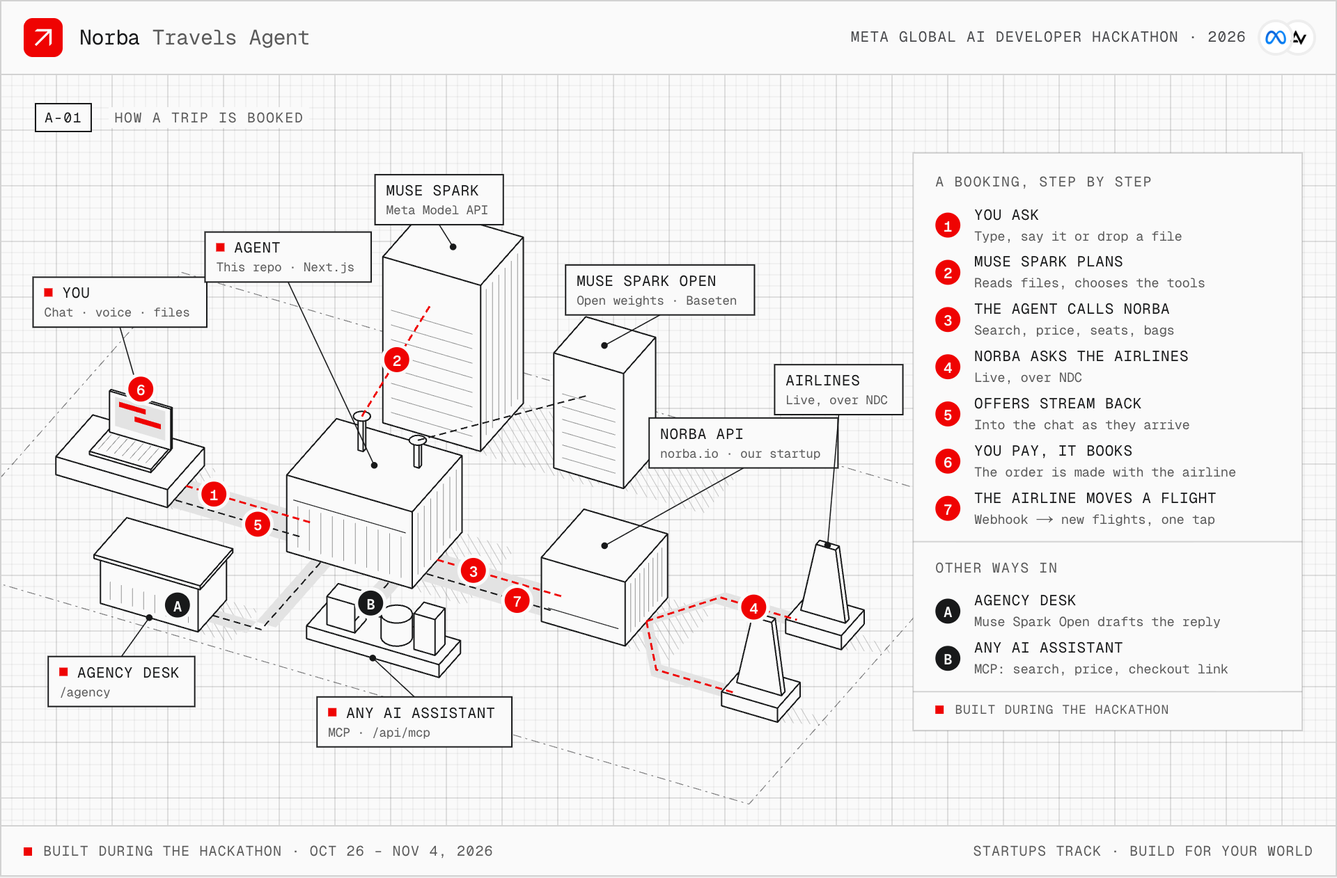
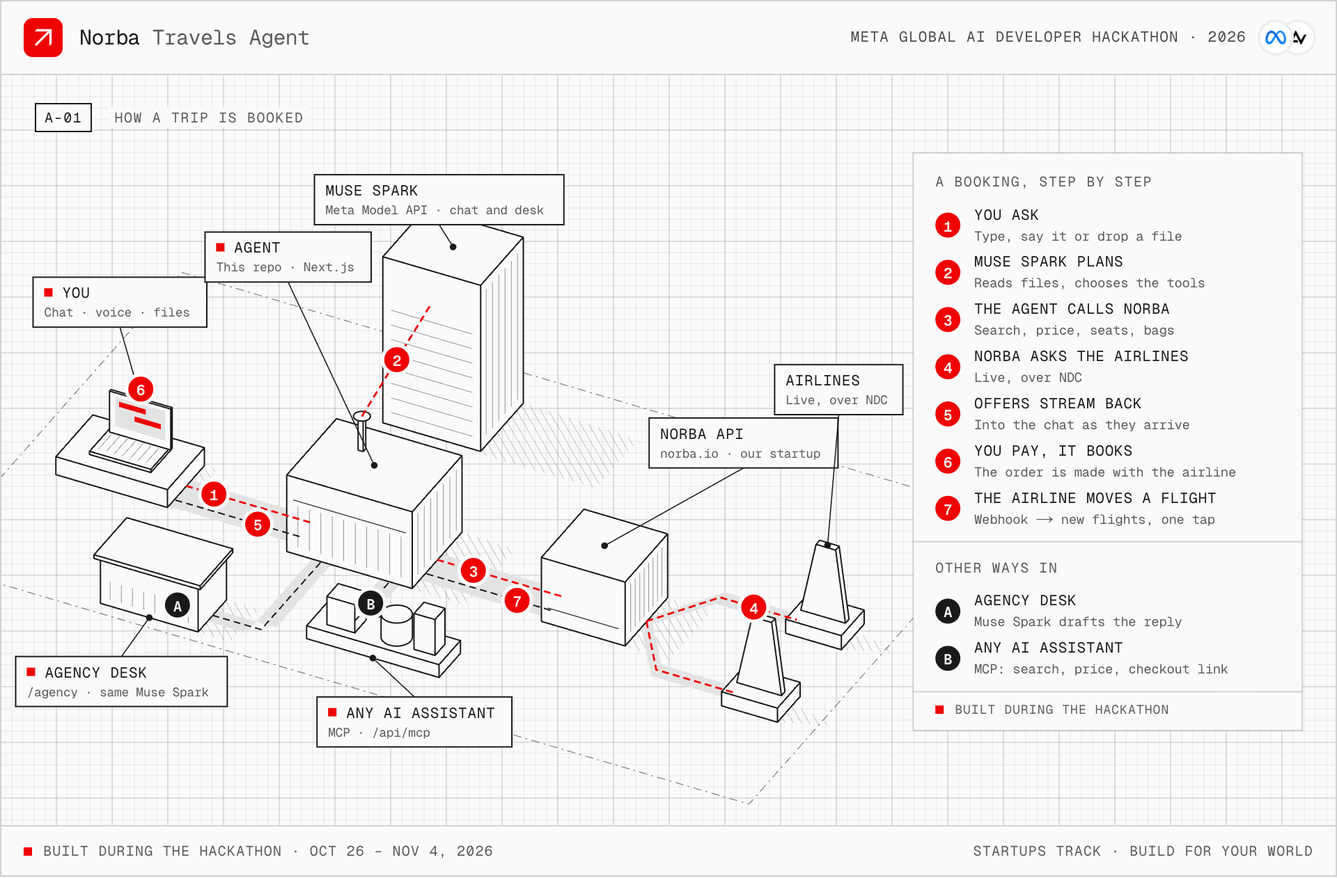
The agency desk runs on the same Muse Spark as the chat: the open-weight provider, its OPEN_MODEL_* settings and the Baseten defaults are gone from the code, the example environment and the Render blueprint; the desk needs MODEL_API_KEY like the rest and its chip names Muse Spark; the README, the do

diff --git a/src/components/drawing/architecture.tsx b/src/components/drawing/architecture.tsx
@@ -6,8 +6,8 @@ import { Badge, Legend, Tag } from "./kit";
 
 /**
  * The docs page's architecture, as a small campus on drawing paper, read as numbered steps. The agent's building
- * stands in the middle. The traveller's laptop sends it a chat turn and gets its events back. Two masts on its roof
- * reach the Meta towers behind: Muse Spark for the chat, Muse Spark Open for the agency desk. Norba's building stands
+ * stands in the middle. The traveller's laptop sends it a chat turn and gets its events back. A mast on its roof
+ * reaches Muse Spark's tower behind, which answers the chat and the agency desk alike. Norba's building stands
  * to its right and relays to the airlines' stands, and it sends the airline's schedule changes back as webhooks. The
  * agency desk and other AI assistants (over MCP) come in from the front. Each step's number sits on its wire and the
  * legend beside the drawing tells them in order; red marks a chat turn's path, ink the rest.
@@ -36,7 +36,6 @@ const track = (a: [number, number], b: [number, number], half = 0.7): V3[] =>
 type Block = { u0: number; u1: number; v0: number; v1: number; z: number };
 
 const META: Block = { u0: -10, u1: -3, v0: -18, v1: -12, z: 13 };
-const OPEN: Block = { u0: 2, u1: 7, v0: -17, v1: -12.5, z: 9 };
 const LAPTOP: Block = { u0: -26, u1: -18, v0: -2.6, v1: 2.6, z: 1.4 };
 const AGENT: Block = { u0: -9, u1: 0, v0: -3.5, v1: 3.5, z: 6 };
 const NORBA: Block = { u0: 9, u1: 15, v0: -3, v1: 3, z: 5 };
@@ -45,7 +44,6 @@ const MCP: Block = { u0: -3.5, u1: 6, v0: 8.5, v1: 11.5, z: 1 };
 
 /** The masts on the agent's roof, and the airlines' branches out of Norba. */
 const MAST_META = { u: -6, v: -1.2, z: 8.6 };
-const MAST_OPEN = { u: -2, v: -1.2, z: 8 };
 const SPLIT = [15, 18];
 const END_U = 23.5;
 const LINES = [
@@ -66,7 +64,7 @@ const DRAWING = (() => {
   /* Ground: shadows, then the tracks the wires run on. */
   scene.pass = 0;
   scene.framing = false;
-  for (const b of [META, OPEN, AGENT, NORBA, AGENCY]) scene.shadow([...corners(b, 0), ...corners(b, b.z)]);
+  for (const b of [META, AGENT, NORBA, AGENCY]) scene.shadow([...corners(b, 0), ...corners(b, b.z)]);
   scene.shadow([...corners(LAPTOP, 0), ...corners(LAPTOP, LAPTOP.z), P(-24, -1.6, 4.6), P(-20, -1.6, 4.6)]);
   scene.line([...ground([[-29, -21], [30, -21], [30, 15], [-29, 15]]), P(-29, -21, 0)], "dash");
   scene.framing = true;
@@ -80,13 +78,11 @@ const DRAWING = (() => {
   scene.face(ground([[AGENCY.u1, 11.3], [AGENCY_U + 0.7, 11.3], [AGENCY_U + 0.7, AGENT.v1], [AGENCY_U - 0.7, AGENT.v1], [AGENCY_U - 0.7, 12.7], [AGENCY.u1, 12.7]]), "well");
   scene.face(track([MCP_U, AGENT.v1], [MCP_U, MCP.v0]), "well");
 
-  /* The Meta towers at the back: Muse Spark, and Muse Spark Open beside it. */
+  /* Muse Spark's tower at the back. */
   scene.pass = 1;
   lbox(scene, META.u0, META.v0, 0, META.u1, META.v1, META.z);
   scene.lines(range(1, META.z - 4, 7).map((z) => [P(META.u0 + 0.6, META.v1, z), P(META.u1 - 0.6, META.v1, z)]), "hair");
   scene.lines(range(META.v0 + 0.8, META.v1 - 0.8, 5).map((v) => [P(META.u1, v, 0.8), P(META.u1, v, META.z - 0.8)]), "hair");
-  lbox(scene, OPEN.u0, OPEN.v0, 0, OPEN.u1, OPEN.v1, OPEN.z);
-  scene.lines(range(1, OPEN.z - 3, 5).map((z) => [P(OPEN.u0 + 0.6, OPEN.v1, z), P(OPEN.u1 - 0.6, OPEN.v1, z)]), "hair");
 
   /* The traveller's laptop on its plinth, a conversation on the screen. */
   scene.pass = 2;
@@ -106,7 +102,7 @@ const DRAWING = (() => {
   scene.lines(range(AGENT.u0 + 0.8, AGENT.u1 - 0.8, 9).map((u) => [P(u, AGENT.v1, 0.6), P(u, AGENT.v1, AGENT.z - 2.2)]), "hair");
   scene.line([P(AGENT.u0 + 0.5, AGENT.v1, AGENT.z - 1.8), P(AGENT.u1 - 0.5, AGENT.v1, AGENT.z - 1.8)], "fine");
   scene.lines(range(AGENT.v0 + 0.8, AGENT.v1 - 0.8, 6).map((v) => [P(AGENT.u1, v, 0.6), P(AGENT.u1, v, AGENT.z - 0.6)]), "hair");
-  for (const m of [MAST_META, MAST_OPEN]) {
+  for (const m of [MAST_META]) {
     lbox(scene, m.u - 0.18, m.v - 0.18, AGENT.z, m.u + 0.18, m.v + 0.18, m.z);
     scene.face(range(0, 2 * Math.PI, 16).map((t) => P(m.u + 0.55 * Math.cos(t), m.v + 0.55 * Math.sin(t), m.z)));
   }
@@ -187,10 +183,9 @@ export function ArchitectureDrawing() {
         ))}
       </g>
 
-      {/* The other wires in ink: events back, the agency desk's model, webhooks, the agency and the assistants. */}
+      {/* The other wires in ink: events back, webhooks, the agency and the assistants. */}
       <g className="fx-fade" style={{ animationDelay: "1200ms" }}>
         <polyline points={pts([g(AGENT.u0, EVENTS_V), g(LAPTOP.u1, EVENTS_V)])} stroke="var(--hr-ink-strong)" {...wire} strokeWidth={1} />
-        <polyline points={pts([P(MAST_OPEN.u, MAST_OPEN.v, MAST_OPEN.z), P(4.5, OPEN.v1, 6.5)])} stroke="var(--hr-ink-strong)" {...wire} strokeWidth={1} />
         <polyline points={pts([g(NORBA.u0, WEBHOOK_V), g(AGENT.u1, WEBHOOK_V)])} stroke="var(--hr-ink-strong)" {...wire} strokeWidth={1} />
         <polyline points={pts([g(AGENCY.u1, 12), g(AGENCY_U, 12), g(AGENCY_U, AGENT.v1)])} stroke="var(--hr-ink-strong)" {...wire} strokeWidth={1} />
         <polyline points={pts([g(MCP_U, MCP.v0), g(MCP_U, AGENT.v1)])} stroke="var(--hr-ink-strong)" {...wire} strokeWidth={1} />
@@ -199,11 +194,10 @@ export function ArchitectureDrawing() {
       {/* Every piece named on an upright tag; the red square marks what was built during the hackathon. */}
       <Tag at={at(P(-22, -1.5, 4.6))} off={[-15, -70]} title="You" sub="Chat · voice · files" made />
       <Tag at={at(P(-4.5, 0, AGENT.z))} off={[-62, -150]} title="Agent" sub="This repo · Next.js" made />
-      <Tag at={at(P(-6.5, -15, META.z))} off={[-10, -34]} title="Muse Spark" sub="Meta Model API" />
-      <Tag at={at(P(4.5, -14.7, OPEN.z))} off={[40, -40]} title="Muse Spark Open" sub="Open weights · Baseten" />
+      <Tag at={at(P(-6.5, -15, META.z))} off={[-10, -34]} title="Muse Spark" sub="Meta Model API · chat and desk" />
       <Tag at={at(P(12, 0, NORBA.z))} off={[100, -74]} title="Norba API" sub="norba.io · our startup" />
       <Tag at={at(P(END_U + 2.2, LINES[0].v, 6.6))} off={[8, -112]} title="Airlines" sub="Live, over NDC" />
-      <Tag at={at(P((AGENCY.u0 + AGENCY.u1) / 2, AGENCY.v1, 0))} off={[-20, 46]} title="Agency desk" sub="/agency" made />
+      <Tag at={at(P((AGENCY.u0 + AGENCY.u1) / 2, AGENCY.v1, 0))} off={[-20, 46]} title="Agency desk" sub="/agency · same Muse Spark" made />
       <Tag at={at(P(1.25, MCP.v1, 0))} off={[30, 46]} title="Any AI assistant" sub="MCP · /api/mcp" made />
 
       {/* Each step's number on its wire, appearing in order. */}

diff --git a/src/app/docs/page.tsx b/src/app/docs/page.tsx
@@ -8,7 +8,7 @@ import { STEPS } from "@/components/drawing/architecture-steps";
 import { DocsToc } from "./docs-toc";
 import { Sq } from "@/components/status";
 import { brain } from "@/server/agent/run";
-import { config, norbaEnvironment, openModelMode } from "@/server/config";
+import { config, norbaEnvironment } from "@/server/config";
 
 export const dynamic = "force-dynamic";
 export const metadata: Metadata = {
@@ -131,7 +131,6 @@ POST /api/mcp   {"jsonrpc":"2.0","id":3,"method":"tools/call","params":{"name":"
 /** The project's documentation: what it does, which Meta models and Norba endpoints it uses, and how to run it. */
 export default function Docs() {
   const b = brain();
-  const open = openModelMode();
   return (
     <div className="flex min-h-dvh flex-col">
       <header className="hr-frost sticky top-0 z-40 border-b border-hr-line">
@@ -142,9 +141,6 @@ export default function Docs() {
           <span className="ml-auto hidden items-center gap-4 font-mono text-[10px] uppercase tracking-[0.06em] text-hr-ink-3 md:inline-flex">
             <span className="inline-flex items-center gap-1.5">
               <Sq className={b.mode === "meta" ? "bg-hr-success" : "bg-hr-concrete"} /> {b.model}
-            </span>
-            <span className="inline-flex items-center gap-1.5">
-              <Sq className={open === "open" ? "bg-hr-success" : "bg-hr-concrete"} /> desk: {open === "open" ? config.openModel.id : open === "meta" ? "Muse Spark stand-in" : "off"}
             </span>
             <span className="inline-flex items-center gap-1.5">
               <Sq className={norbaEnvironment() === "mock" ? "bg-hr-concrete" : "bg-hr-success"} /> Norba · {norbaEnvironment()}
@@ -234,13 +230,13 @@ export default function Docs() {
                 ["Muse Spark 1.3", "Each traveller's own agent in a group trip: shortlists their best three with a reason", "Structured output (json_schema, strict)", <C key="2">server/agent/group.ts</C>],
                 ["Muse Spark 1.3 · reasoning high", "The group coordinator: one flight per traveller inside the arrival window and budget", "Structured output, reasoning_effort=high", <C key="3">server/agent/group.ts</C>],
                 ["Muse Spark 1.3 · vision", "Reads invitations, screenshots, PDFs and departure boards; a policy PDF into rules", "image_url and file content parts, structured output, 0–1000 boxes", <C key="4">server/agent/vision.ts</C>],
-                ["Muse Spark Open", "The agency desk: reads requests, checks the travel policy, drafts replies", "Open weights on Baseten (OpenAI-compatible), structured output", <C key="5">server/agency.ts</C>],
+                ["Muse Spark 1.3", "The agency desk: reads requests, checks the travel policy, drafts replies", "Structured output (json_schema, strict), vision for the policy PDF", <C key="5">server/agency.ts</C>],
                 ["Muse Voice Transcribe", "Dictation in the chat", "POST /v1/asr/transcribe, WAV 24 kHz mono, language bias, keywords", <C key="6">server/llm/voice.ts</C>],
               ]}
             />
             <P>
-              Without <C>OPEN_MODEL_API_KEY</C> the desk runs on Muse Spark and says so on every step. Without <C>MODEL_API_KEY</C> a rule-based planner drives the same tools; vision,
-              voice, group agents and the desk need a model.
+              The chat, the group agents and the agency desk all run on the same Muse Spark model. Without <C>MODEL_API_KEY</C> a rule-based planner drives the same tools;
+              vision, voice, group agents and the desk need the model.
             </P>
           </Section>
 
@@ -377,7 +373,7 @@ export default function Docs() {
             <Table
               head={["Flow", "Steps"]}
               rows={[
-                ["Agency desk", "Request read (Muse Spark Open) → Norba searches the cabin asked for and economy → each option checked against the policy → reply drafted → Approve prices it and adds a checkout link"],
+                ["Agency desk", "Request read (Muse Spark) → Norba searches the cabin asked for and economy → each option checked against the policy → reply drafted → Approve prices it and adds a checkout link"],
                 ["Board photo", "Photo → Muse Spark reads every row → the traveller's flight found by number → disrupted → find_rebooking → Switch"],
                 ["Booking", "Request → airports → search → choose → price → seats → extras → travellers → review → payment → booking → e-tickets"],
                 ["Document to trip", "File → Muse Spark reads it (kind, facts with boxes, trip) → the agent asks only what is missing → search"],
@@ -419,9 +415,6 @@ export default function Docs() {
                 ["NORBA_API_KEY", "empty (mock)", "nbr_test_… sandbox, nbr_live_… production"],
                 ["NORBA_API_URL", "https://api.norba.io", "Norba base URL"],
                 ["NORBA_WEBHOOK_SECRET", "empty", "whsec_ secret for /api/webhooks/norba"],
-                ["OPEN_MODEL_API_KEY", "empty", "Partner key for Muse Spark Open (the desk)"],
-                ["OPEN_MODEL_BASE_URL", "https://inference.baseten.co/v1", "Partner base URL"],
-                ["OPEN_MODEL_ID", "meta-models/muse-spark-open-1026", "Open-weight model id"],
                 ["PUBLIC_URL", "the request's host", "Base of checkout links"],
                 ["VOICE_MODEL_ID", "muse-voice-transcribe-1.0", "Dictation model"],
               ]}

diff --git a/src/server/agency.ts b/src/server/agency.ts
@@ -4,17 +4,17 @@ import { airlineName } from "@/lib/airlines";
 import { clock, dateLabel, duration, money } from "@/lib/format";
 import { groupItineraries, sortItineraries } from "@/lib/offers";
 import type { CabinClass, Offer } from "@/lib/types";
-import { config, openModelMode } from "./config";
-import { modelLabel, structured, type CallOptions } from "./llm/meta";
+import { brainMode } from "./config";
+import { modelLabel, structured } from "./llm/meta";
 import type { ContentPart } from "./llm/types";
 import { openCheckout, slotsFor } from "./checkout";
 import { norba } from "./norba";
 
 /*
- * The agency desk: the same agent, for a travel agency's staff. A client's request arrives by email or chat; Muse
- * Spark Open — Meta's open-weight model, served by a partner — reads it, Norba searches, the model checks every option
- * against the client company's travel policy and drafts the reply. The person at the desk approves one option, which
- * becomes a checkout link for the client. Without a partner key Muse Spark stands in, and the desk says so.
+ * The agency desk: the same agent, for a travel agency's staff, on the same model as the chat. A client's request
+ * arrives by email or chat; Muse Spark reads it, Norba searches, Muse Spark checks every option against the client
+ * company's travel policy and drafts the reply. The person at the desk approves one option, which becomes a checkout
+ * link for the client.
  */
 
 export type DeskStep = { id: string; label: string; status: "running" | "done" | "failed"; detail?: string; model?: string };
@@ -45,8 +45,7 @@ type Draft = { offers: Map<string, Offer>; adults: number; traveller: string; at
 const store = globalThis as unknown as { __naDesk?: Map<string, Draft> };
 const drafts = (store.__naDesk ??= new Map<string, Draft>());
 
-const OPEN: CallOptions = { provider: "open" };
-const label = () => (openModelMode() === "open" ? `${modelLabel(OPEN)} · Baseten` : `${modelLabel()} (standing in for Muse Spark Open)`);
+const label = () => modelLabel();
 
 const CABINS: CabinClass[] = ["economy", "premium_economy", "business", "first"];
 
@@ -115,7 +114,7 @@ export async function draft(request: string, policy: { text?: string; pdf?: stri
             notes: { type: "string", description: "Constraints that matter for the flight: meeting times, preferences" },
           },
         },
-        { ...OPEN, signal },
+        { signal },
       ),
     (r) => `${r.traveller_name} · ${r.origin} → ${r.destination} · ${r.depart_date}${r.return_date ? `–${r.return_date}` : ""} · ${r.cabin.replace("_", " ")}`,
     model,
@@ -173,7 +172,7 @@ export async function draft(request: string, policy: { text?: string; pdf?: stri
             summary: { type: "string", description: "One sentence for the agent at the desk" },
           },
         },
-        { ...OPEN, signal },
+        { signal },
       ),
     (r) => `${r.verdicts.filter((v) => v.compliant).length} of ${options.length} within policy`,
     model,
@@ -195,7 +194,7 @@ export async function draft(request: string, policy: { text?: string; pdf?: stri
         ],
         "agency_reply",
         { type: "object", additionalProperties: false, required: ["subject", "body"], properties: { subject: { type: "string" }, body: { type: "string" } } },
-        { ...OPEN, signal },
+        { signal },
       ),
     () => "ready to send",
     model,
@@ -214,4 +213,4 @@ export async function approve(draftId: string, ref: string, base: string) {
   return { url: `${base}/pay/${c.token}`, total: c.total, currency: c.currency, until: priced.price_guaranteed_until };
 }
 
-export const deskModel = () => ({ mode: openModelMode(), label: label(), partner: config.openModel.baseUrl.replace(/^https?:\/\//, "").split("/")[0] });
+export const deskModel = () => ({ mode: brainMode(), label: label() });

diff --git a/src/server/llm/meta.ts b/src/server/llm/meta.ts
@@ -6,8 +6,7 @@ import type { ChatTurn, CompletionResult, ToolCall, ToolSchema } from "./types";
 
 /*
  * Meta Model API over its OpenAI-compatible Chat Completions endpoint (POST {base}/chat/completions, Bearer key).
- * Two providers answer the same request: "meta" is Muse Spark on api.meta.ai; "open" is Muse Spark Open, the
- * open-weight model, served by a partner such as Baseten. Without a key for "open", Muse Spark stands in for it.
+ * Muse Spark answers every call: the chat, file reading, the group agents and the agency desk.
  */
 
 const TIMEOUT_MS = 120_000;
@@ -22,16 +21,12 @@ export class ModelError extends Error {
   }
 }
 
-export type Provider = "meta" | "open";
-
-/** One model call's settings: which provider, which model, how hard it thinks. */
-export type CallOptions = { provider?: Provider; model?: string; effort?: string; signal?: AbortSignal };
+/** One model call's settings: which model, how hard it thinks. */
+export type CallOptions = { model?: string; effort?: string; signal?: AbortSignal };
 
 function endpoint(o: CallOptions = {}) {
-  const open = o.provider === "open" && config.openModel.apiKey;
-  const p = open ? config.openModel : config.model;
-  const effort = o.effort ?? (open ? "" : config.model.reasoningEffort);
-  return { url: `${p.baseUrl}/chat/completions`, key: p.apiKey, model: o.model ?? p.id, effort, provider: (open ? "open" : "meta") as Provider };
+  const p = config.model;
+  return { url: `${p.baseUrl}/chat/completions`, key: p.apiKey, model: o.model ?? p.id, effort: o.effort ?? p.reasoningEffort };
 }
 
 /** The model a call with these options runs on, as the chat labels it. */
@@ -79,7 +74,7 @@ export async function structured<T>(messages: ChatTurn[], name: string, schema: 
   if (!res.ok) throw await failure(res);
   const j = (await res.json()) as Chunk;
   const content = j.choices?.[0]?.message?.content ?? "";
-  // Some open-weight servers wrap JSON in a code fence even under a schema.
+  // A model may wrap JSON in a code fence even under a schema.
   const raw = content.replace(/^\s*```(?:json)?\s*/i, "").replace(/\s*```\s*$/, "");
   try {
     return JSON.parse(raw) as T;
@@ -109,7 +104,7 @@ export async function complete(messages: ChatTurn[], tools: ToolSchema[], onText
   });
   if (!res.ok || !res.body) throw await failure(res);
 
-  // A provider that ignores `stream` answers one JSON body: read it the same way.
+  // An endpoint that ignores `stream` answers one JSON body: read it the same way.
   if (!(res.headers.get("content-type") ?? "").includes("event-stream")) {
     const j = (await res.json()) as Chunk;
     const m = j.choices?.[0]?.message;

diff --git a/src/server/config.ts b/src/server/config.ts
@@ -10,12 +10,6 @@ export const config = {
     /** How hard the group coordinator thinks: it weighs every traveller's options against each other. */
     plannerEffort: process.env.MODEL_PLANNER_EFFORT?.trim() || "high",
   },
-  /** Muse Spark Open, Meta's open-weight model, served by a partner (Baseten by default); the agency desk runs on it. */
-  openModel: {
-    apiKey: process.env.OPEN_MODEL_API_KEY?.trim() ?? "",
-    baseUrl: (process.env.OPEN_MODEL_BASE_URL?.trim() || "https://inference.baseten.co/v1").replace(/\/$/, ""),
-    id: process.env.OPEN_MODEL_ID?.trim() || "meta-models/muse-spark-open-1026",
-  },
   /** Muse Voice Transcribe, on the Meta Model API with the same key. */
   voice: { id: process.env.VOICE_MODEL_ID?.trim() || "muse-voice-transcribe-1.0" },
   /**
@@ -33,10 +27,7 @@ export const config = {
   },
 };
 
-export const brainMode = () => (config.model.apiKey ? "meta" : "offline");
-
-/** Where the open-weight model runs: its partner when configured, otherwise Muse Spark stands in. */
-export const openModelMode = (): "open" | "meta" | "offline" => (config.openModel.apiKey ? "open" : config.model.apiKey ? "meta" : "offline");
+export const brainMode = (): "meta" | "offline" => (config.model.apiKey ? "meta" : "offline");
 
 export const norbaMode = () => (config.norba.apiKey ? "live" : "mock");
 

diff --git a/src/app/api/agency/draft/route.ts b/src/app/api/agency/draft/route.ts
@@ -1,5 +1,5 @@
 import { draft, type DeskEvent } from "@/server/agency";
-import { brainMode, openModelMode } from "@/server/config";
+import { brainMode } from "@/server/config";
 import { dataUrlBytes, MAX_ATTACHMENT_BYTES } from "@/server/agent/vision";
 import { limited, limits } from "@/server/guard";
 
@@ -13,7 +13,7 @@ export async function POST(req: Request) {
   // A draft is four model calls: the desk gets a quarter of the chat's allowance.
   const tooMany = limited(req, "desk", Math.ceil(limits.perVisitorPerHour / 4));
   if (tooMany) return tooMany;
-  if (openModelMode() === "offline") return Response.json({ error: "The desk needs a model: set OPEN_MODEL_API_KEY or MODEL_API_KEY." }, { status: 503 });
+  if (brainMode() === "offline") return Response.json({ error: "The desk needs Muse Spark: set MODEL_API_KEY." }, { status: 503 });
   const body = (await req.json().catch(() => ({}))) as Body;
   const request = (body.request ?? "").trim().slice(0, 4000);
   if (!request) return Response.json({ error: "Paste the client's request" }, { status: 400 });

diff --git a/src/app/agency/agency-desk.tsx b/src/app/agency/agency-desk.tsx
@@ -37,7 +37,7 @@ const POLICY = `Acme Corp — Air travel policy (2026)
 4. Prefer non-stop flights when they cost less than 20% more than a connection.
 5. Book at least 7 days before departure.`;
 
-type Model = { mode: "open" | "meta" | "offline"; label: string; partner: string };
+type Model = { mode: "meta" | "offline"; label: string };
 
 async function* lines(body: ReadableStream<Uint8Array>) {
   const reader = body.getReader();
@@ -171,7 +171,7 @@ export function AgencyDesk({ model }: { model: Model }) {
             <NorbaWordmark sub="Agency desk" />
           </Link>
           <span className="ml-auto hidden items-center gap-2 font-mono text-[10px] uppercase tracking-[0.06em] text-hr-ink-3 sm:inline-flex">
-            <Sq className={model.mode === "open" ? "bg-hr-success" : "bg-hr-concrete"} /> {model.label}
+            <Sq className={model.mode === "meta" ? "bg-hr-success" : "bg-hr-concrete"} /> {model.label}
           </span>
           <NavLinks className="max-md:ml-auto" />
         </div>

diff --git a/src/app/agency/page.tsx b/src/app/agency/page.tsx
@@ -3,7 +3,7 @@ import { deskModel } from "@/server/agency";
 import { AgencyDesk } from "./agency-desk";
 
 export const dynamic = "force-dynamic";
-export const metadata: Metadata = { title: "Agency desk", description: "Client requests drafted by Muse Spark Open, checked against the travel policy, booked through Norba." };
+export const metadata: Metadata = { title: "Agency desk", description: "Client requests drafted by Muse Spark, checked against the travel policy, booked through Norba." };
 
 export default function Agency() {
   return <AgencyDesk model={deskModel()} />;

diff --git a/src/components/drawing/architecture-steps.ts b/src/components/drawing/architecture-steps.ts
@@ -7,6 +7,6 @@ export const STEPS = [
   { n: "5", title: "Offers stream back", sub: "Into the chat as they arrive" },
   { n: "6", title: "You pay, it books", sub: "The order is made with the airline" },
   { n: "7", title: "The airline moves a flight", sub: "Webhook → new flights, one tap" },
-  { n: "A", title: "Agency desk", sub: "Muse Spark Open drafts the reply" },
+  { n: "A", title: "Agency desk", sub: "Muse Spark drafts the reply" },
   { n: "B", title: "Any AI assistant", sub: "MCP: search, price, checkout link" },
 ] as const;

diff --git a/README.md b/README.md
@@ -19,8 +19,8 @@ flights through the **[Norba API](https://norba.io)**, which talks to the airlin
   coordinator thinking harder lands everyone together. Each traveller pays their own seat on their own link.
 - **A guardian after booking.** When the airline moves a flight, its notice reaches the agent, which explains it and
   finds better flights; a photo of a departure board that says CANCELLED does the same. One tap switches.
-- **An agency desk.** The same agent for a travel agency's staff, on Muse Spark Open: client requests read, options
-  checked against the company's travel policy, the reply drafted; the agent at the desk approves.
+- **An agency desk.** The same agent for a travel agency's staff, on the same Muse Spark: client requests read,
+  options checked against the company's travel policy, the reply drafted; the agent at the desk approves.
 - **The booking layer for any AI assistant.** An MCP (Model Context Protocol) server gives any assistant real airline
   search and checkout links, without ever handling a card.
 
@@ -64,14 +64,14 @@ airlines through NDC. This agent is what we built on top of it during the hackat
 | Muse Spark 1.3 · reasoning high | group trips | The coordinator: one flight per traveller so the group lands together (structured output) |
 | Muse Spark 1.3 · structured output | group trips | Each traveller's own agent shortlists their best three with a reason |
 | Muse Spark 1.3 · vision | chat, agency desk | Reads invitations, screenshots, PDFs and departure boards into facts with boxes; turns a policy PDF into rules |
-| Muse Spark Open (open weights, Baseten) | `/agency` | Reads client requests, checks options against the travel policy, drafts replies |
+| Muse Spark 1.3 · structured output | `/agency` | The agency desk: reads client requests, checks options against the travel policy, drafts replies |
 | Muse Voice Transcribe | chat | Dictation: the browser records, encodes WAV, the server transcribes |
 
 ## How it works
 
 <picture>
   <source media="(prefers-color-scheme: dark)" srcset="docs/architecture-dark.png">
-  <img alt="How a trip is booked, step by step: 1 you ask, 2 Muse Spark plans, 3 the agent calls Norba, 4 Norba asks the airlines, 5 offers stream back, 6 you pay and it books, 7 the airline moves a flight; A the agency desk on Muse Spark Open, B any AI assistant over MCP." src="docs/architecture-light.png">
+  <img alt="How a trip is booked, step by step: 1 you ask, 2 Muse Spark plans, 3 the agent calls Norba, 4 Norba asks the airlines, 5 offers stream back, 6 you pay and it books, 7 the airline moves a flight; A the agency desk on the same Muse Spark, B any AI assistant over MCP." src="docs/architecture-light.png">
 </picture>
 
 - **A chat turn** is `POST /api/chat`, answered as NDJSON events; `GET /api/updates` brings later changes (a paid group
@@ -168,12 +168,10 @@ MODEL_BASE_URL=https://api.meta.ai/v1
 MODEL_ID=muse-spark-1.3
 MODEL_REASONING_EFFORT=low           # the chat; minimal | low | medium | high | xhigh | max, or empty
 MODEL_PLANNER_EFFORT=high            # the group coordinator
-OPEN_MODEL_API_KEY=…                 # Muse Spark Open for the agency desk (Baseten by default)
-OPEN_MODEL_ID=meta-models/muse-spark-open-1026
 ```
 
-The chat can run on Muse Spark Open too: point `MODEL_BASE_URL` and `MODEL_ID` at the partner, leave the effort empty
-if it does not take one. Airline schedule changes arrive through `/api/webhooks/norba` with `NORBA_WEBHOOK_SECRET`.
+The chat, file reading, the group agents and the agency desk all run on this one model. Airline schedule changes
+arrive through `/api/webhooks/norba` with `NORBA_WEBHOOK_SECRET`.
 
 ## Deploy (Render)
 
